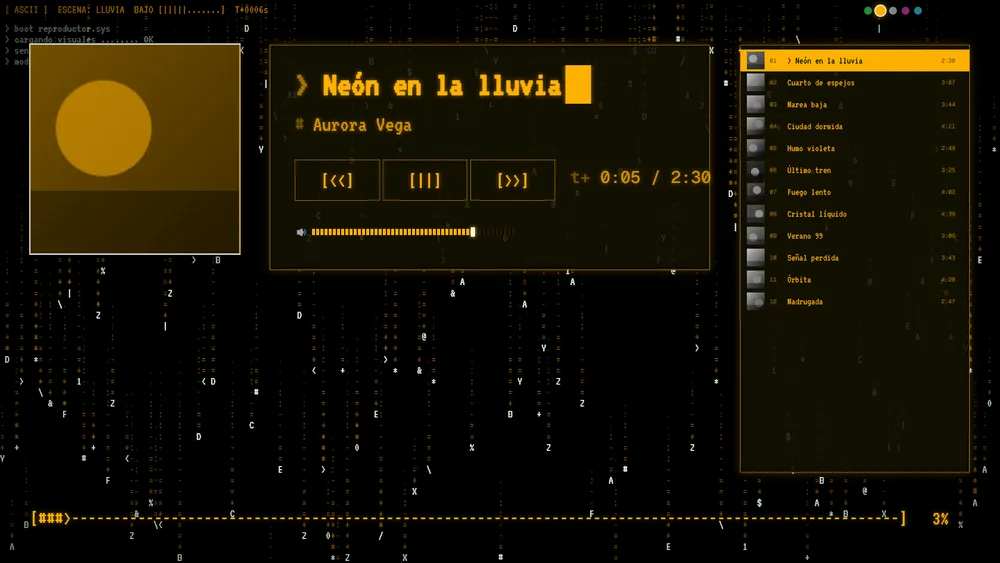
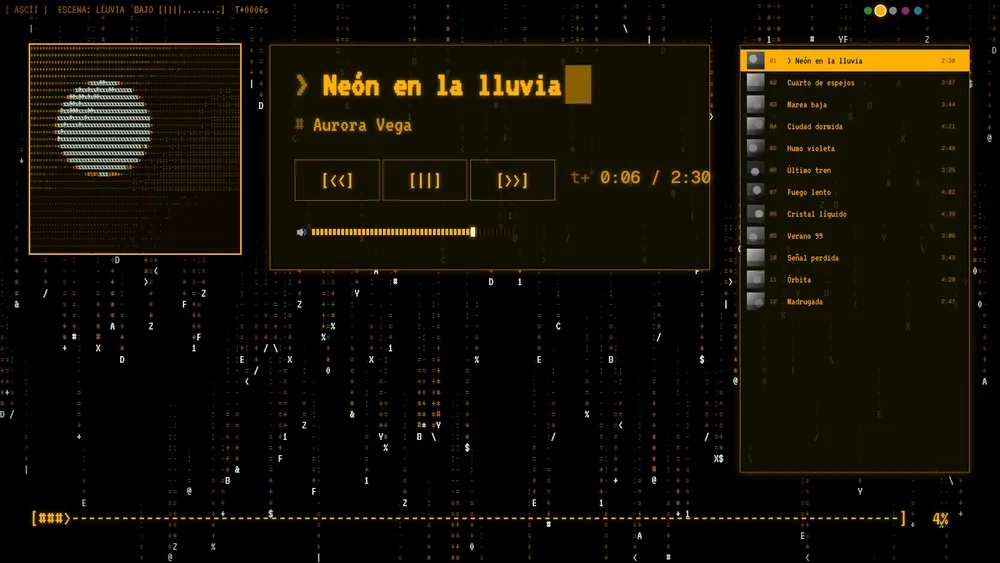
Caratula en ASCII: efecto nuevo para la pieza caratula (caracteres del color del acento, brilla con el bajo, se rehace en cada tema); la plantilla ASCII lo usa

diff --git a/web/libre.html b/web/libre.html
@@ -215,8 +215,9 @@
   body[data-panel=terminal] #lista { font-size: calc(19px * var(--tam, 1)); font-family: "VT323", monospace; }
   body[data-panel=terminal] .fila { border-radius: 0; opacity: .88; } body[data-panel=terminal] .fila img { filter: grayscale(1) contrast(1.15); image-rendering: pixelated; border-radius: 0; }
   body[data-panel=terminal] .fila.sonando { background: var(--acento); color: #00140a; opacity: 1; font-weight: 400; } body[data-panel=terminal] .fila.sonando .nombre::before { content: "> "; }
-  body[data-panel=terminal] .cwrap { background: var(--acento); }   /* la carátula en el color de la plantilla (duotono) */
-  body[data-panel=terminal] .cwrap > img { filter: grayscale(1) contrast(1.2) brightness(1.08); mix-blend-mode: multiply; }
+  body[data-panel=terminal] .cwrap.asc { background: color-mix(in srgb, var(--acento) 6%, #000); }
+  body[data-panel=terminal] .cwrap:not(.asc) { background: var(--acento); }   /* la carátula en el color de la plantilla (duotono) */
+  body[data-panel=terminal] .cwrap:not(.asc) > img { filter: grayscale(1) contrast(1.2) brightness(1.08); mix-blend-mode: multiply; }
   .barra-ascii { width: 100%; display: flex; align-items: center; cursor: pointer; white-space: pre; font: 400 min(92cqh, 3cqw) "VT323", monospace; color: var(--acento); text-shadow: 0 0 9px color-mix(in srgb, var(--acento) 50%, transparent); }
   /* ---- Acabado del fondo ---- */
   #fondoL.ac-cine::after, #fondoL.ac-vhs::after, #fondoL.ac-sueno::after { content: ""; position: absolute; inset: 0; pointer-events: none; z-index: 5; }
@@ -553,10 +554,36 @@ function efecto(c, p) {
 // ---- Carátula con efectos ----
 function caratula(p) {
   const forma = val(p, "forma"), efecto = val(p, "efecto"), d = document.createElement("div");
-  d.className = `cwrap f-${forma}${val(p, "borde") ? " borde" : ""}${efecto === "bn" ? " bn" : ""}`;
+  d.className = `cwrap f-${forma}${val(p, "borde") ? " borde" : ""}${efecto === "bn" ? " bn" : ""}${efecto === "ascii" ? " asc" : ""}`;
   const rot = val(p, "inclinacion"); if (rot) d.style.transform = `rotate(${rot}deg)`;
   d.innerHTML = '<img id="caratula" alt="">';
   const img = d.firstChild; img.onerror = () => { img.style.visibility = "hidden"; }; img.onload = () => { img.style.visibility = "visible"; };
+  if (efecto === "ascii") {   // la carátula hecha de caracteres del color del acento; brilla con el bajo y se rehace en cada tema
+    const c = document.createElement("canvas"); c.width = c.height = 420; d.appendChild(c); img.style.display = "none";
+    const g = c.getContext("2d"), RAMPA = " .:-=+*#%@"; let grilla = null, cols = 0, filas = 0, cw = 6.5, ch = 14, ultimo = 0;
+    const fuente = '15px "VT323", "Cascadia Mono", Consolas, monospace', preparar = () => { g.font = fuente; cw = g.measureText("M").width || 6.5; filas = Math.floor(420 / ch); cols = Math.floor(420 / cw); };
+    if (document.fonts && document.fonts.load) document.fonts.load('15px "VT323"').then(preparar).catch(() => {}); preparar();
+    R.alCambiar((q) => cargar(q.caratula, (i) => {
+      if (!i) { grilla = null; img.style.display = ""; return; }
+      try {
+        preparar(); const m = document.createElement("canvas"); m.width = cols; m.height = filas; const mg = m.getContext("2d"); mg.drawImage(i, 0, 0, cols, filas);   // se estira a la cuadrícula: cada celda es más alta que ancha, así la imagen no se deforma
+        const px = mg.getImageData(0, 0, cols, filas).data, lum = new Float32Array(cols * filas); let mn = 1, mx = 0;
+        for (let k = 0; k < lum.length; k++) { const l = (px[k * 4] * .3 + px[k * 4 + 1] * .59 + px[k * 4 + 2] * .11) / 255; lum[k] = l; if (l < mn) mn = l; if (l > mx) mx = l; }
+        for (let k = 0; k < lum.length; k++) lum[k] = (lum[k] - mn) / Math.max(.15, mx - mn);   // se estira el contraste para que siempre se vea
+        grilla = lum; img.style.display = "none";
+      } catch (e) { grilla = null; img.style.display = ""; }   // imagen de otro origen que no se puede leer: se muestra normal
+    }));
+    R.cadaCuadro((t) => {
+      if (!grilla || t - ultimo < 1 / 20) return; ultimo = t;
+      const bajo = Math.min(1, R.energia(R.espectro(), 1, 8) * 1.2), gan = .78 + bajo * .5, cubos = [[], [], [], [], []];
+      g.clearRect(0, 0, 420, 420); g.font = fuente; g.textBaseline = "top";
+      for (let r = 0; r < filas; r++) for (let k = 0; k < cols; k++) {
+        const v = Math.min(1.15, Math.pow(grilla[r * cols + k], 1.15) * gan + (Math.random() - .5) * .05), idx = Math.min(RAMPA.length - 1, Math.floor(v * (RAMPA.length - 1) + .35));
+        if (idx > 0) cubos[Math.min(4, Math.floor(v * 4.6))].push(k * cw, r * ch, RAMPA[idx]);
+      }
+      cubos.forEach((q, nv) => { g.fillStyle = nv === 4 ? "#e8fff0" : `rgba(${acento},${.32 + nv * .17})`; for (let n = 0; n < q.length; n += 3) g.fillText(q[n + 2], q[n], q[n + 1]); });
+    });
+  }
   if (efecto === "pixelada" || efecto === "duotono") {
     const c = document.createElement("canvas"); c.width = c.height = 240; d.appendChild(c); img.style.display = "none";
     R.alCambiar((q) => cargar(q.caratula, (i) => {

diff --git a/web/esquema.js b/web/esquema.js
@@ -39,7 +39,7 @@ const ESQUEMA = {
       "espejo": { "t": "bool", "n": "Reflejar hacia arriba", "def": false } } },
     "caratula": { "etiqueta": "Carátula", "rect": [6, 16, 20, 36], "ids": ["caratula"], "opciones": {
       "forma": { "t": "enum", "n": "Forma", "v": { "cuadrada": "Cuadrada", "redondeada": "Redondeada", "circulo": "Círculo", "vinilo": "Vinilo (gira)", "burbuja": "Burbuja de vidrio (flota)" }, "def": "redondeada" },
-      "efecto": { "t": "enum", "n": "Efecto", "v": { "normal": "Normal", "duotono": "Duotono", "pixelada": "Pixelada", "bn": "Blanco y negro" }, "def": "normal" },
+      "efecto": { "t": "enum", "n": "Efecto", "v": { "normal": "Normal", "duotono": "Duotono", "pixelada": "Pixelada", "bn": "Blanco y negro", "ascii": "ASCII (hecha de caracteres)" }, "def": "normal" },
       "inclinacion": { "t": "num", "n": "Inclinación", "min": -20, "max": 20, "def": 0, "u": "°" },
       "borde": { "t": "bool", "n": "Borde del color de acento", "def": false } } },
     "titulo": { "etiqueta": "Título", "rect": [30, 62, 40, 6], "ids": ["titulo"], "opciones": {

diff --git a/web/plantillas-propias.js b/web/plantillas-propias.js
@@ -90,7 +90,7 @@ const Propias = (() => {
   INCLUIDAS.ascii = { nombre: "ASCII", reglas: { requeridas: ["titulo", "botones", "barra"], nota: COMUN },
       fondo: { tipo: "ascii", color: "#020503", brillo: 100, cambio: 26, eventos: true, acabado: "vhs", golpe: "" }, estilo: { panel: "terminal", acento: "#3dff7a", fuente: "VT323" },
       colores: [["Verde", "#3dff7a"], ["Ámbar", "#ffb000"], ["Blanco", "#e6eef0"], ["Magenta", "#ff3fd8"], ["Cian", "#37e6ff"]],
-      piezas: () => armar([["caratula", [3, 8, 21, 37], { forma: "cuadrada", borde: true }],
+      piezas: () => armar([["caratula", [3, 8, 21, 37], { forma: "cuadrada", efecto: "ascii", borde: true }],
         ["panel", [27, 8, 44, 40], {}],
         ["titulo", [29.5, 11, 39, 8], { fuente: "VT323" }], ["artista", [29.5, 19.5, 39, 5], { fuente: "VT323" }],
         ["botones", [29.5, 28, 26, 8], {}], ["tiempo", [57, 29, 12, 5], { fuente: "VT323" }],
